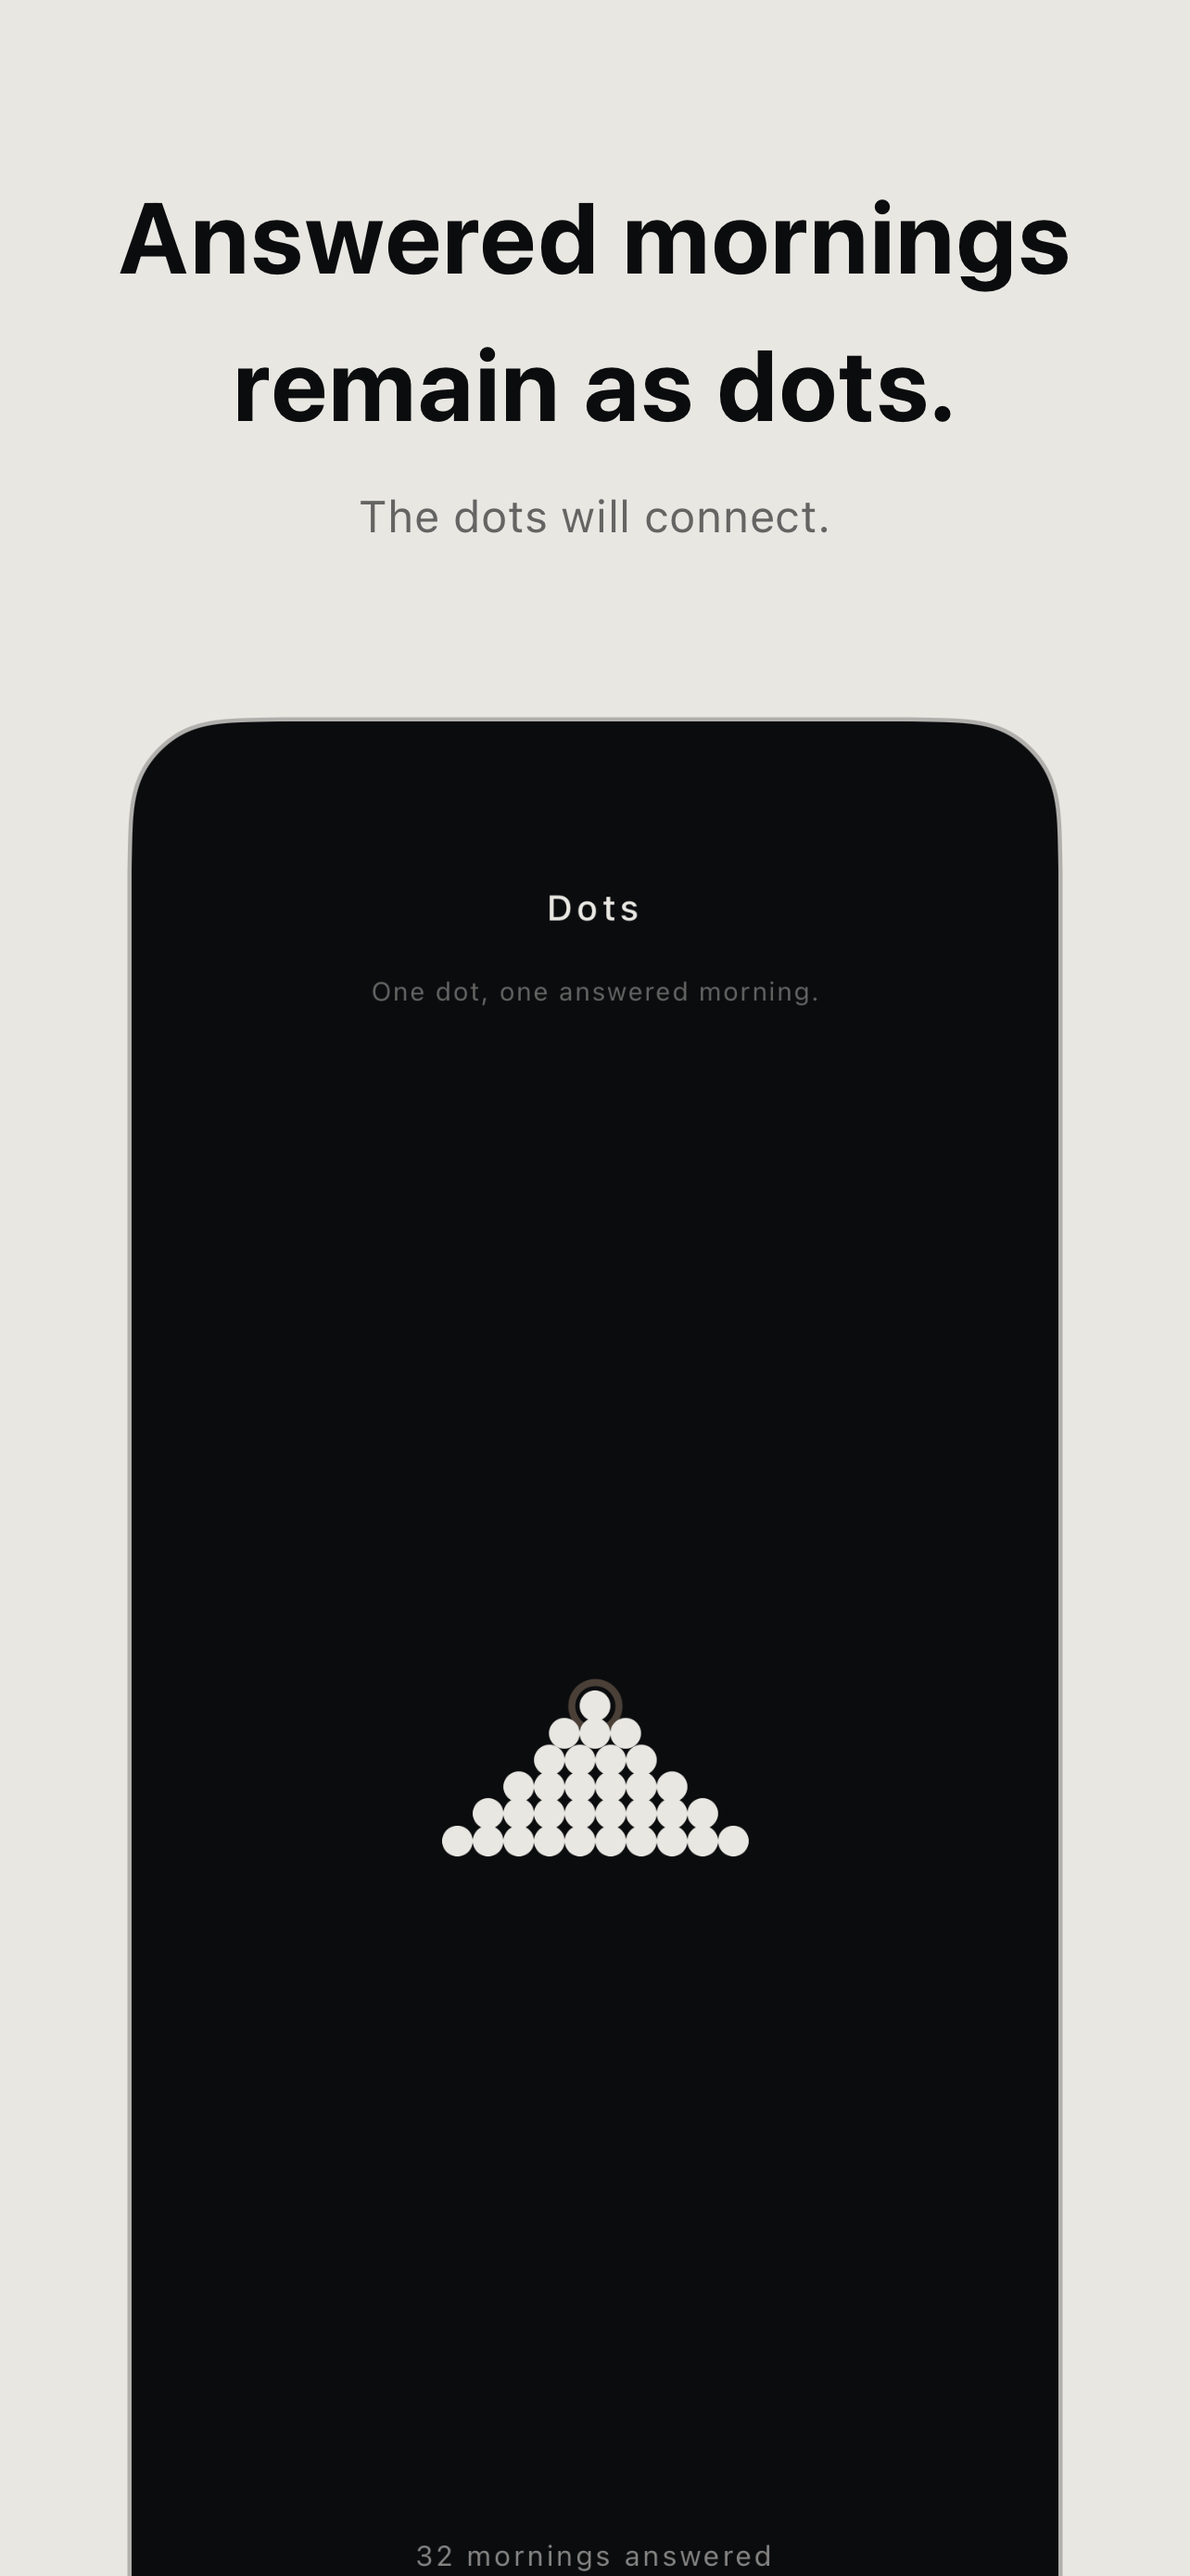
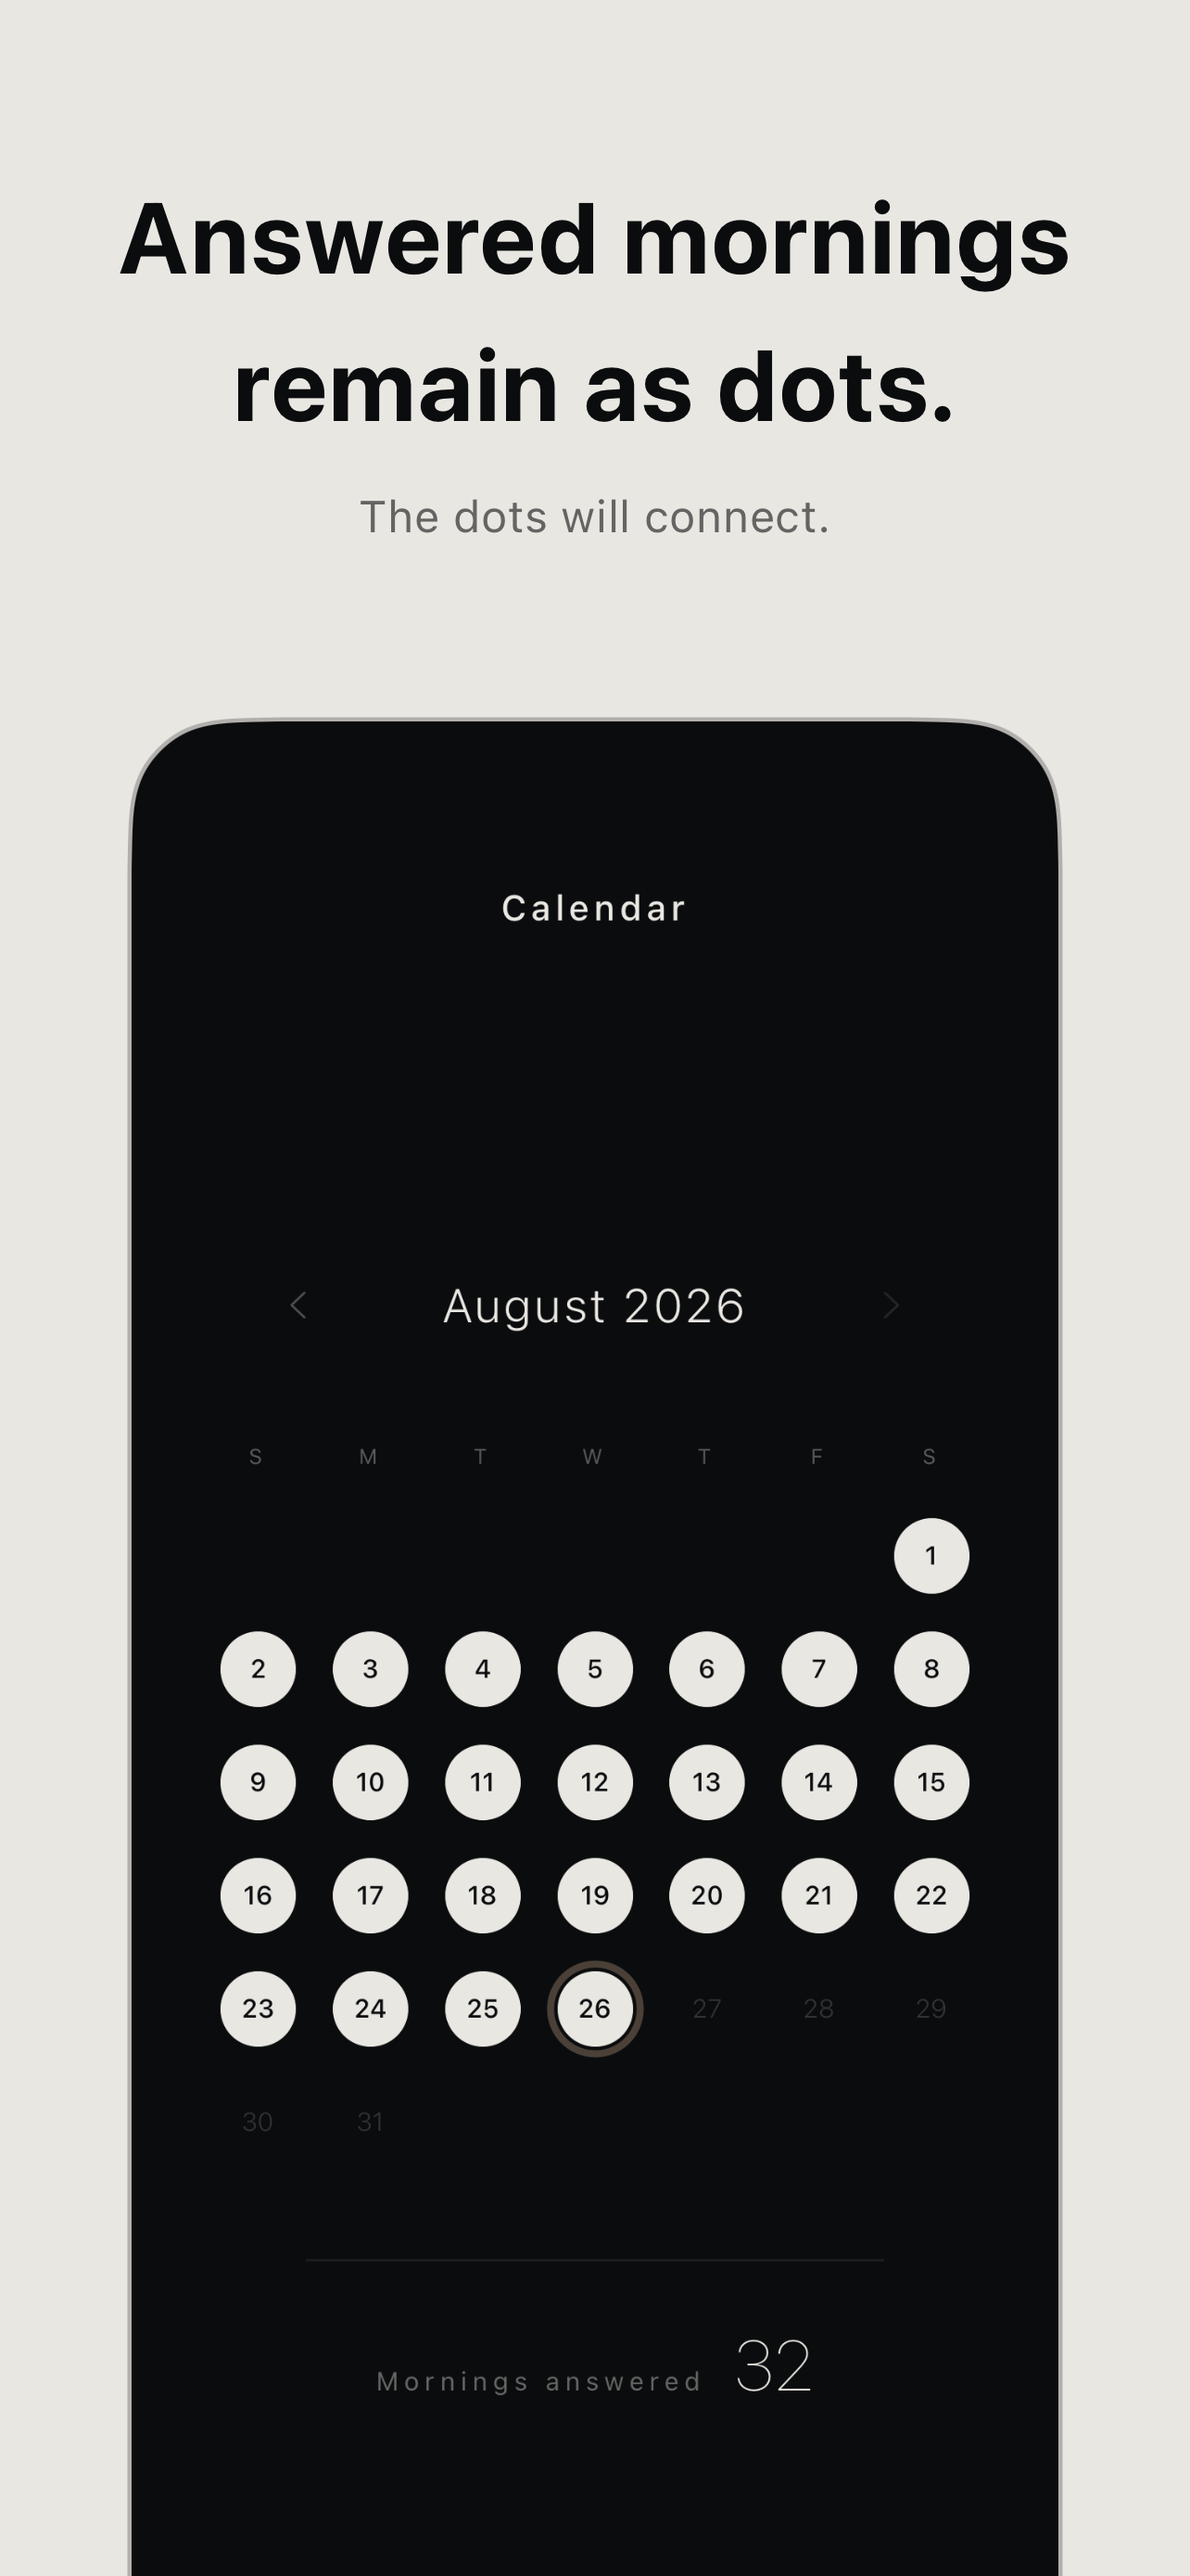
ストア画像のスロット 4 を削除済みの点画面からカレンダーのモックに置き換える (issue #121)
- MockDotsScreen を MockCalendarScreen に置き換え、月めくりカレンダー
  (MonthCalendarPage) を 2026 年 8 月固定・1〜26 日回答済み・今日 (26 日) に
  夜明けリングの静止描画で再現する
- MockHomeScreen のリンク行を main の ContentView と同じ
  Journal · Calendar · Settings の 3 リンクに更新する
- 全 6 レイアウトのスロット 4 を MockCalendarScreen に差し替える
  (見出し「答えた朝が、点として残る。/ 点は、いつかつながる。」は
  カレンダーの粒表現と整合するため流用)
- xcstrings に August 2026 / Mornings answered の ja を追加し、
  参照が無くなった Dots / One dot, one answered morning. を削除する
- 再生成した washi 一式を fastlane/screenshots に適用する
  (差分はカレンダースロットの 4 ファイルのみ。ホームのリンク行は
  デバイスフレームの画面外で写らないためピクセル不変)

diff --git a/AppStoreScreenshots/Sources/MockScreens/MockCalendarScreen.swift b/AppStoreScreenshots/Sources/MockScreens/MockCalendarScreen.swift
@@ -1,0 +1,137 @@
+import SwiftUI
+
+/// 月めくりカレンダー画面 (MonthCalendarPage) のモック。
+/// 答えた日は温白の粒に墨の数字、今日にだけ夜明け色のリング (アクセントは各画面 1 箇所まで) を本番のトークンどおりに再現する。
+/// スクリーンショットは毎回同じ絵にするため、暦の計算をせず 2026 年 8 月 (1 日が土曜・31 日まで) の固定値で静止描画する
+struct MockCalendarScreen: View {
+    /// 今日の日付。26 日 (水曜) を「今日」とし、1〜26 日を回答済みにする
+    private let today = 26
+    /// 月初 (1 日) が入る曜日列の手前の空きマス数。2026 年 8 月 1 日は土曜のため日曜起点で 6
+    private let leadingEmptyCount = 6
+    /// 月の日数。2026 年 8 月は 31 日まで
+    private let dayCount = 31
+
+    var body: some View {
+        VStack(spacing: 0) {
+            // ja: カレンダー
+            Text("Calendar")
+                .font(.system(size: 15, weight: .medium))
+                .tracking(2.1)
+                .foregroundStyle(Color.warmWhite)
+                .padding(.top, 70)
+
+            Spacer()
+
+            monthPager
+            weekdayHeader
+                .padding(.top, 30)
+            monthGrid
+                .padding(.top, 6)
+            Rectangle()
+                .fill(Color.hairline)
+                .frame(height: 1)
+                .padding(.horizontal, 40)
+                .padding(.top, 34)
+            HStack(alignment: .firstTextBaseline, spacing: 12) {
+                // ja: 答えた朝
+                Text("Mornings answered")
+                    .font(.system(size: 11))
+                    .tracking(2.2)
+                    .foregroundStyle(Color.warmWhite.opacity(0.4))
+                // 今月の 26 日分に前月の回答を足した全期間の件数。粒画面から引き継いだ「答えた朝 32」と数を一致させる
+                Text(verbatim: "32")
+                    .font(.system(size: 30, weight: .ultraLight))
+                    .foregroundStyle(Color.warmWhite)
+            }
+            .padding(.top, 26)
+
+            Spacer()
+        }
+        .padding(.horizontal, 34)
+        .frame(maxWidth: .infinity, maxHeight: .infinity)
+        .background(Color.ink)
+    }
+
+    /// 月送り (前月・翌月) と表示中の月名。前月には回答があるため戻れる (30%)、表示中が今月のため翌月は進めない (12%)
+    private var monthPager: some View {
+        HStack(spacing: 18) {
+            Image(systemName: "chevron.left")
+                .font(.system(size: 14, weight: .light))
+                .foregroundStyle(Color.warmWhite.opacity(0.3))
+                .frame(width: 44, height: 44)
+            // ja: 2026年8月
+            Text("August 2026")
+                .font(.system(size: 20, weight: .light))
+                .tracking(1.6)
+                .foregroundStyle(Color.warmWhite)
+                .frame(minWidth: 170)
+            Image(systemName: "chevron.right")
+                .font(.system(size: 14, weight: .light))
+                .foregroundStyle(Color.warmWhite.opacity(0.12))
+                .frame(width: 44, height: 44)
+        }
+    }
+
+    /// 撮影言語に合わせた曜日記号 (日曜起点)。
+    /// 本番 (calendarDisplayLocale) と同じくアプリの表示言語で整形し、暦は日付の固定値と揃うグレゴリオ暦にする
+    private var weekdaySymbols: [String] {
+        var localizedCalendar = Calendar(identifier: .gregorian)
+        localizedCalendar.locale = Locale(identifier: Bundle.main.preferredLocalizations.first ?? "en")
+        return localizedCalendar.veryShortStandaloneWeekdaySymbols
+    }
+
+    /// 曜日ヘッダー (グリッドの列と同じ日曜起点の並び)
+    private var weekdayHeader: some View {
+        LazyVGrid(columns: Array(repeating: GridItem(.flexible()), count: 7), spacing: 0) {
+            // 曜日記号は言語によって重複する (英語の S/T 等) ため列番号を id にする
+            ForEach(0..<7, id: \.self) { weekdayColumnIndex in
+                Text(verbatim: weekdaySymbols[weekdayColumnIndex])
+                    .font(.system(size: 9))
+                    .tracking(1.8)
+                    .foregroundStyle(Color.warmWhite.opacity(0.35))
+                    .frame(height: 24)
+            }
+        }
+    }
+
+    /// 8 月の日付グリッド (7 列 × 6 行)。月に属さない先頭・末尾の空きマスは何も描かない
+    private var monthGrid: some View {
+        LazyVGrid(columns: Array(repeating: GridItem(.flexible()), count: 7), spacing: 0) {
+            let cellCount = ((leadingEmptyCount + dayCount + 6) / 7) * 7
+            // マスの並びは不変のため位置を id にする
+            ForEach(0..<cellCount, id: \.self) { cellIndex in
+                Group {
+                    let day = cellIndex - leadingEmptyCount + 1
+                    if 1 <= day && day <= dayCount {
+                        monthGridDayCell(day: day)
+                    } else {
+                        Color.clear
+                    }
+                }
+                .frame(height: 48)
+            }
+        }
+    }
+
+    /// 日付 1 マスぶんの表示。答えた日 (1〜26 日) は温白の粒に墨の数字、未来 (27 日以降) は数字のみ弱く
+    private func monthGridDayCell(day: Int) -> some View {
+        let isAnswered = day <= today
+        return ZStack {
+            if isAnswered {
+                Circle()
+                    .fill(Color.warmWhite)
+                    .frame(width: 32, height: 32)
+            }
+            // 今日にだけ夜明け色のリングを添える (アクセントは各画面 1 箇所まで)
+            if day == today {
+                Circle()
+                    .stroke(Color.dawn.opacity(0.35), lineWidth: 3)
+                    .frame(width: 38, height: 38)
+            }
+            Text(verbatim: "\(day)")
+                .font(.system(size: 11, weight: isAnswered ? .medium : .light))
+                .foregroundStyle(isAnswered ? Color.ink : Color.warmWhite.opacity(0.18))
+        }
+        .frame(maxWidth: .infinity)
+    }
+}

diff --git a/AppStoreScreenshots/Sources/Layouts/AppStoreScreenshotKohakuFrame.swift b/AppStoreScreenshots/Sources/Layouts/AppStoreScreenshotKohakuFrame.swift
@@ -126,7 +126,7 @@ struct AppStoreScreenshot27Page_Previews: PreviewProvider {
     }
 }
 
-/// App Store スクリーンショット 28 枚目 - kohaku - 点 (粒の蓄積)
+/// App Store スクリーンショット 28 枚目 - kohaku - カレンダー (答えた朝の蓄積)
 struct AppStoreScreenshot28Page: View {
     var body: some View {
         AppStoreScreenshotKohakuLayout(
@@ -137,7 +137,7 @@ struct AppStoreScreenshot28Page: View {
             // ja: 点は、いつかつながる。
             subtitle: "The dots will connect."
         ) {
-            MockDotsScreen()
+            MockCalendarScreen()
         }
     }
 }

diff --git a/AppStoreScreenshots/Sources/Layouts/AppStoreScreenshotWashiFrame.swift b/AppStoreScreenshots/Sources/Layouts/AppStoreScreenshotWashiFrame.swift
@@ -129,7 +129,7 @@ struct AppStoreScreenshot9Page_Previews: PreviewProvider {
     }
 }
 
-/// App Store スクリーンショット 10 枚目 - washi - 点 (粒の蓄積)
+/// App Store スクリーンショット 10 枚目 - washi - カレンダー (答えた朝の蓄積)
 struct AppStoreScreenshot10Page: View {
     var body: some View {
         AppStoreScreenshotWashiLayout(
@@ -140,7 +140,7 @@ struct AppStoreScreenshot10Page: View {
             // ja: 点は、いつかつながる。
             subtitle: "The dots will connect."
         ) {
-            MockDotsScreen()
+            MockCalendarScreen()
         }
     }
 }

diff --git a/AppStoreScreenshots/Sources/Layouts/AppStoreScreenshotBoldFrame.swift b/AppStoreScreenshots/Sources/Layouts/AppStoreScreenshotBoldFrame.swift
@@ -136,7 +136,7 @@ struct AppStoreScreenshot33Page_Previews: PreviewProvider {
     }
 }
 
-/// App Store スクリーンショット 34 枚目 - bold - 点 (粒の蓄積)
+/// App Store スクリーンショット 34 枚目 - bold - カレンダー (答えた朝の蓄積)
 struct AppStoreScreenshot34Page: View {
     var body: some View {
         AppStoreScreenshotBoldLayout(
@@ -147,7 +147,7 @@ struct AppStoreScreenshot34Page: View {
             // ja: 点は、いつかつながる。
             subtitle: "The dots will connect."
         ) {
-            MockDotsScreen()
+            MockCalendarScreen()
         }
     }
 }

diff --git a/AppStoreScreenshots/Sources/Layouts/AppStoreScreenshotDawnFrame.swift b/AppStoreScreenshots/Sources/Layouts/AppStoreScreenshotDawnFrame.swift
@@ -152,7 +152,7 @@ struct AppStoreScreenshot15Page_Previews: PreviewProvider {
     }
 }
 
-/// App Store スクリーンショット 16 枚目 - dawn - 点 (粒の蓄積)
+/// App Store スクリーンショット 16 枚目 - dawn - カレンダー (答えた朝の蓄積)
 struct AppStoreScreenshot16Page: View {
     var body: some View {
         AppStoreScreenshotDawnLayout(
@@ -163,7 +163,7 @@ struct AppStoreScreenshot16Page: View {
             // ja: 点は、いつかつながる。
             subtitle: "The dots will connect."
         ) {
-            MockDotsScreen()
+            MockCalendarScreen()
         }
     }
 }

diff --git a/AppStoreScreenshots/Sources/Layouts/AppStoreScreenshotKumoFrame.swift b/AppStoreScreenshots/Sources/Layouts/AppStoreScreenshotKumoFrame.swift
@@ -129,7 +129,7 @@ struct AppStoreScreenshot21Page_Previews: PreviewProvider {
     }
 }
 
-/// App Store スクリーンショット 22 枚目 - kumo - 点 (粒の蓄積)
+/// App Store スクリーンショット 22 枚目 - kumo - カレンダー (答えた朝の蓄積)
 struct AppStoreScreenshot22Page: View {
     var body: some View {
         AppStoreScreenshotKumoLayout(
@@ -140,7 +140,7 @@ struct AppStoreScreenshot22Page: View {
             // ja: 点は、いつかつながる。
             subtitle: "The dots will connect."
         ) {
-            MockDotsScreen()
+            MockCalendarScreen()
         }
     }
 }

diff --git a/AppStoreScreenshots/Sources/Layouts/AppStoreScreenshotInkFrame.swift b/AppStoreScreenshots/Sources/Layouts/AppStoreScreenshotInkFrame.swift
@@ -71,7 +71,7 @@ struct AppStoreScreenshot3Page_Previews: PreviewProvider {
     }
 }
 
-/// App Store スクリーンショット 4 枚目 - ink - 点 (粒の蓄積)
+/// App Store スクリーンショット 4 枚目 - ink - カレンダー (答えた朝の蓄積)
 struct AppStoreScreenshot4Page: View {
     var body: some View {
         AppStoreScreenshotInkLayout(
@@ -82,7 +82,7 @@ struct AppStoreScreenshot4Page: View {
             // ja: 点は、いつかつながる。
             subtitle: "The dots will connect."
         ) {
-            MockDotsScreen()
+            MockCalendarScreen()
         }
     }
 }

diff --git a/AppStoreScreenshots/Sources/MockScreens/MockHomeScreen.swift b/AppStoreScreenshots/Sources/MockScreens/MockHomeScreen.swift
@@ -95,8 +95,6 @@ struct MockHomeScreen: View {
             HStack(spacing: 24) {
                 // ja: ジャーナル
                 Text("Journal")
-                // ja: 点
-                Text("Dots")
                 // ja: カレンダー
                 Text("Calendar")
                 // ja: 設定
